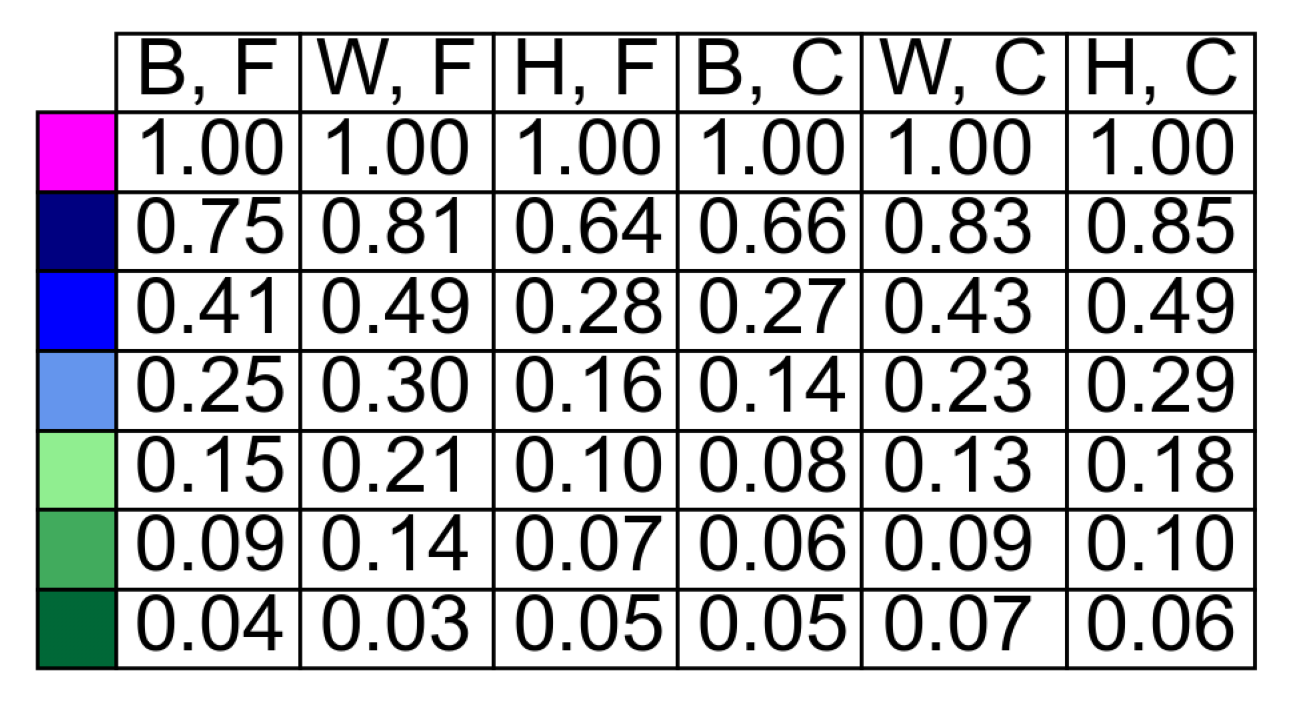
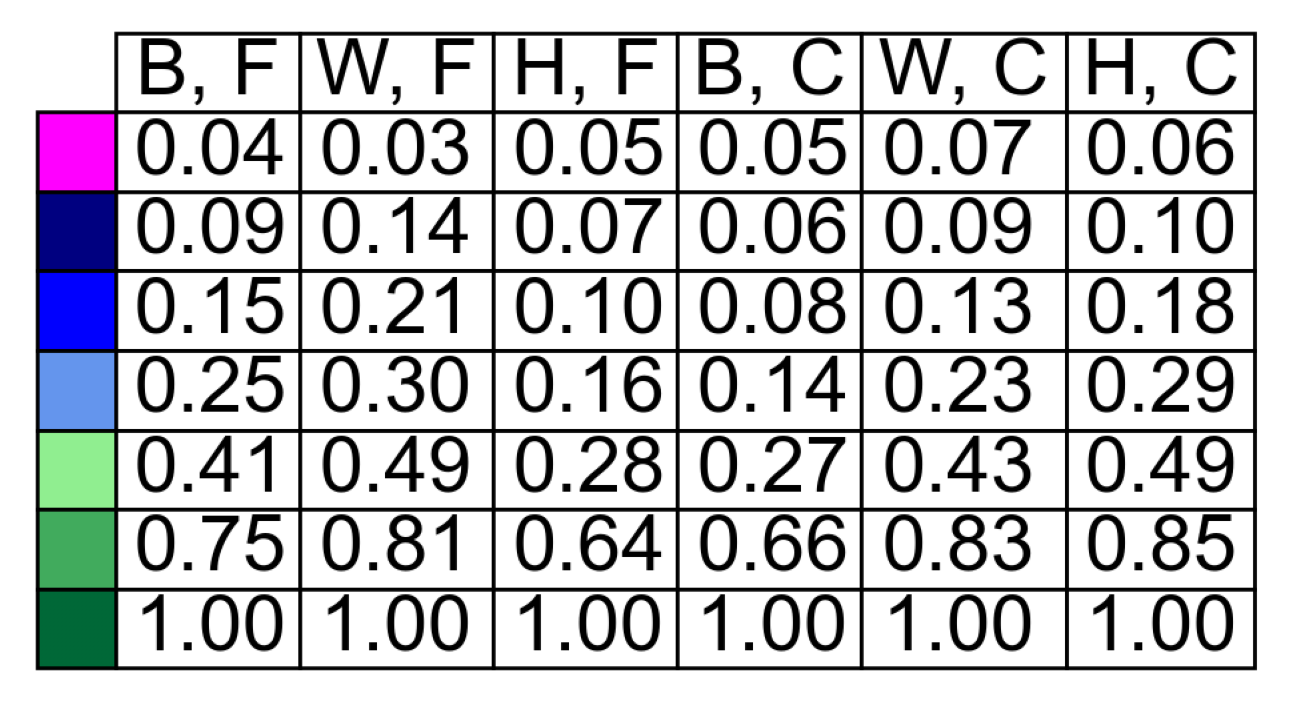
smoothness score exp change alpha

diff --git a/experiments/baby_names_US/change_time_decay_factor/table_smoothness.py b/experiments/baby_names_US/change_time_decay_factor/table_smoothness.py
@@ -1,0 +1,133 @@
+import ast
+
+import pandas as pd
+import numpy as np
+import matplotlib.pyplot as plt
+import matplotlib
+from algorithm import FPR_workload as workload
+import seaborn as sns
+from matplotlib import rc
+from algorithm import config
+import colorsys
+import csv
+from matplotlib.scale import ScaleBase
+from matplotlib.transforms import Transform
+
+# Enable LaTeX rendering
+# plt.rcParams['text.usetex'] = True
+# plt.rcParams['font.family'] = 'CMU.Serif'
+# plt.rcParams['font.serif'] = 'Computer Modern'
+
+# Set the global font family to serif
+plt.rcParams['font.family'] = 'arial'
+
+sns.set_palette("Paired")
+sns.set_context("paper", font_scale=1.6)
+
+# read FPR
+df_FPR = pd.read_csv("Accuracy_time_decay_factor.csv", sep=",")
+
+# print(df_FPR.columns)
+
+col_data_FPR = {}
+
+for col_name in df_FPR.columns:
+    col_data_FPR[col_name] = df_FPR[col_name].tolist()
+
+# draw the plot
+
+x_list = np.arange(0, len(ast.literal_eval(col_data_FPR['male_time_decay'][0])))
+alpha_list = col_data_FPR['alpha']
+plt.rcParams['font.size'] = 17
+curve_colors = sns.color_palette(palette=['navy', 'blue', 'cornflowerblue', 'lightgreen', '#41ab5d', '#006837'])
+curve_colors.append('magenta')
+
+####################### smoothness: standard deviation of the first derative of the curve ############################
+
+
+# smoothness: standard deviation of the first derative of the curve
+smooth_score = {'male_acc': [], 'female_acc': []}
+# print(col_data_FPR["black_time_decay"][0])
+for i in range(len(alpha_list)):
+    print("i = {}, alpha = {}".format(i, alpha_list[i]))
+    fpr = ast.literal_eval(col_data_FPR["male_time_decay"][i])
+    fpr = [x for x in fpr if x != None]
+    print(fpr)
+    dydx = np.diff(fpr) / np.diff(np.arange(0, len(fpr)))
+    sm = np.std(dydx)
+    print("male acc smooth ", sm)
+    smooth_score["male_acc"].append(sm)
+    print(smooth_score)
+    fpr = ast.literal_eval(col_data_FPR["female_time_decay"][i])
+    fpr = [x for x in fpr if x != None]
+    dydx = np.diff(fpr) / np.diff(np.arange(0, len(fpr)))
+    sm = np.std(dydx)
+    smooth_score["female_acc"].append(sm)
+
+
+
+smooth_score_results = {}
+smoothness_scores = [1 / sd for sd in list(smooth_score['male_acc'])]  # Example data
+# Normalize based on the maximum value observed
+max_smoothness = max(smoothness_scores)
+smoothness_scores_normalized_FPR = [score / max_smoothness for score in smoothness_scores]
+print("Normalized Smoothness Scores :", smoothness_scores_normalized_FPR)
+smooth_score_results['male'] = smoothness_scores_normalized_FPR
+
+smoothness_scores = [1 / sd for sd in list(smooth_score['female_acc'])]  # Example data
+# Normalize based on the maximum value observed
+max_smoothness = max(smoothness_scores)
+smoothness_scores_normalized_FPR = [score / max_smoothness for score in smoothness_scores]
+print("Normalized Smoothness Scores :", smoothness_scores_normalized_FPR)
+smooth_score_results['female'] = smoothness_scores_normalized_FPR
+
+
+
+
+formatted_data = {key: [format(val, '.2f') for val in values] for key, values in smooth_score_results.items()}
+print(formatted_data)
+df = pd.DataFrame(formatted_data)
+
+
+headers = list(smooth_score_results.keys())
+row_names = [str(x) for x in alpha_list]
+# put the last item as the first
+row_names = ['t'] + row_names
+row_names = row_names[:-1]
+rows = zip(*formatted_data.values())
+rows = list(rows)
+print(rows)
+
+print(headers, row_names)
+
+# Create a figure and a single subplot
+fig, ax = plt.subplots(figsize=(8, 6))
+
+plt.axis('off')
+
+# Create table with row labels
+table = plt.table(cellText=list(rows), colLabels=['male', 'female'],
+                  rowColours=[curve_colors[-1]]+curve_colors[:-1], colWidths=[0.2] * (len(headers) + 1),
+                  cellLoc='center', rowLoc='center',
+                  rowLabels=['   '] * len(row_names), loc='center')
+# plt.subplots_adjust(left=0.1, right=0.9, top=0.9, bottom=0.1)
+
+table.auto_set_column_width(col=list(range(len(headers) + 1)))
+table.PAD = 0.2
+table.scale(1, 1.1)
+
+
+fig.subplots_adjust(left=0, bottom=0, right=1, top=1, wspace=0, hspace=0)
+
+plt.savefig("baby_names_time_decay_factor_smoothness_2f.png", bbox_inches='tight', dpi=250)
+plt.show()
+
+img = plt.imread("baby_names_time_decay_factor_smoothness_2f.png")
+print(img.shape)
+img_cropped = img[530:img.shape[0] - 530, 770:img.shape[1] - 830]
+plt.axis('off')
+plt.imshow(img_cropped)
+plt.savefig("baby_names_time_decay_factor_smoothness_2f.png", bbox_inches='tight', dpi=250)
+
+
+

diff --git a/experiments/compas/change_time_decay_factor/table_smoothness.py b/experiments/compas/change_time_decay_factor/table_smoothness.py
@@ -140,7 +140,6 @@ row_names = row_names[:-1]
 rows = zip(*formatted_data.values())
 rows = list(rows)
 print(rows)
-rows = rows[::-1]
 
 print(headers, row_names)
 
